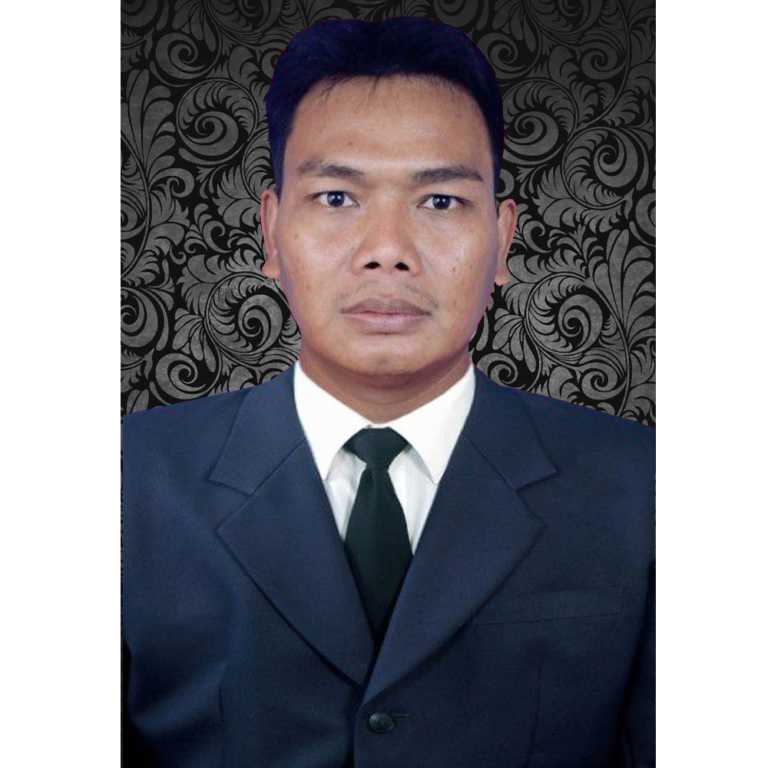
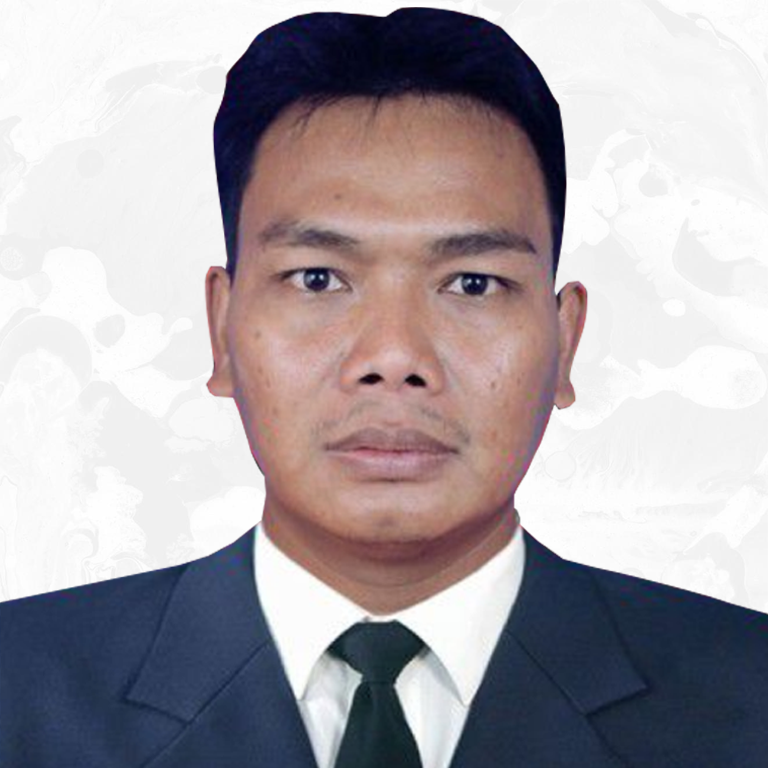
change about us picture and add adjustment

diff --git a/src/views/about-us.vue b/src/views/about-us.vue
@@ -15,16 +15,16 @@ interface Leader {
 }
 
 const missions : Array<Mission> = [
-    {id:'01',text:'MENCIPTAKAN BRAND IMAGE DAN BRAND LOYALTY BAGI PENGGUNA JASA.'},
-    {id:'02',text:'MENCIPTAKAN BRAND IMAGE DAN BRAND LOYALTY BAGI PENGGUNA JASA.'},
-    {id:'03',text:'MENCIPTAKAN BRAND IMAGE DAN BRAND LOYALTY BAGI PENGGUNA JASA.'},
-    {id:'04',text:'MENCIPTAKAN BRAND IMAGE DAN BRAND LOYALTY BAGI PENGGUNA JASA.'}
+    {id:'01',text:'Menciptakan Brand Image dan Brand Loyalty bagi pengguna jasa.'},
+    {id:'02',text:'Peningkatan Profesionalisme Personil.'},
+    {id:'03',text:'Menjalankan Sistem Pengendalian Mutu, KEPI, SPI dan Peraturan lainnya dengan tertib.'},
+    {id:'04',text:'Perencanaan, Pengorganisasi Pelaksanaan dan Pengawasan Terintegrasi Dengan Baik.'}
 ];
 
 const leaders : Array<Leader> = [
     {
         id:1,
-        image:'/assets/images/pimpinan/leader.jpg',
+        image:'/assets/images/pimpinan/leader.png',
         name:'Dr. Henricus Judi Adrianto S.E., M.Ec.Dev., M.H., MAPPI(Cert.)',
         position:'Pimpinan Rekan'
     },
@@ -87,16 +87,10 @@ const leaders : Array<Leader> = [
         </section>
 
         <section class="relative py-14 lg:py-[100px] xl:-mt-[100px]">
-            <!-- <div
-                class="absolute top-0 z-[1] h-full w-full bg-white ltr:left-0 rtl:right-0 dark:bg-black xl:w-[85%] xl:rounded-r-[32px]">
-            </div>
-            <div
-                class="absolute -top-3 hidden h-full w-full rounded-r-[32px] bg-white/50 ltr:left-3 rtl:right-3 dark:bg-gray-dark xl:inline-block xl:w-[85%]">
-            </div> -->
             <div class="container relative">
                 <div class="lg:w-full">
                     <div class="heading text-center ltr:lg:text-left rtl:lg:text-right">
-                        <h6 class="!text-black !text-lg font-bold">Visi & Misi Kami</h6>
+                        <h6 class="!text-black !text-lg font-bold">Visi Kami </h6>
                         <h4>Menjadi Perusahaan Penilai yang terpercaya dan lebih baik di Indonesia.</h4>
                     </div>
                     <p class="pb-3 text-center text-lg font-semibold leading-[30px] ltr:lg:text-left rtl:lg:text-right">
